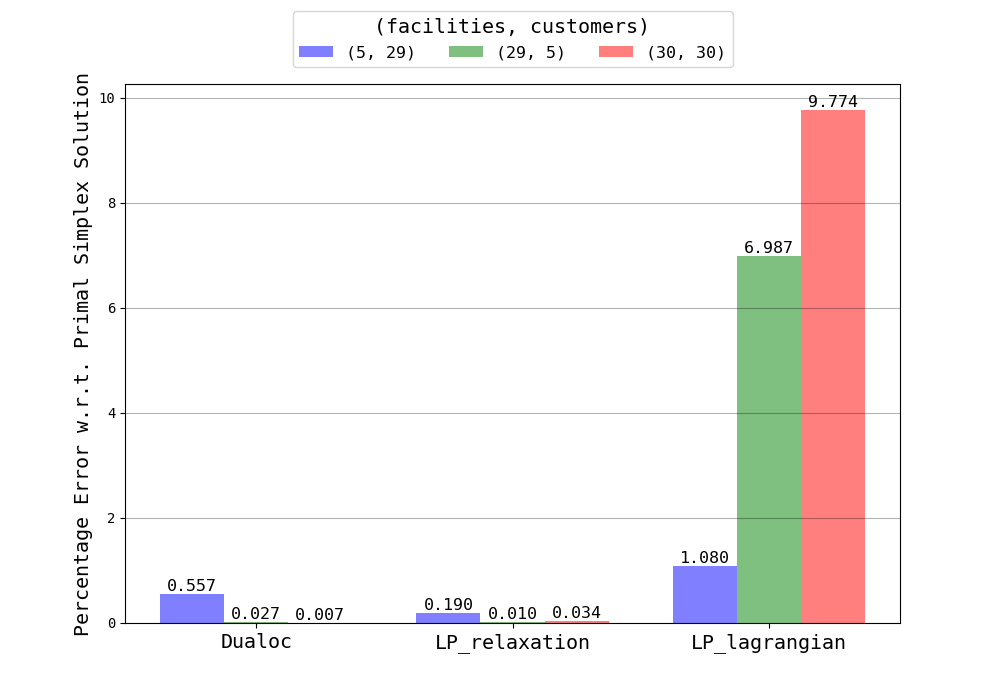
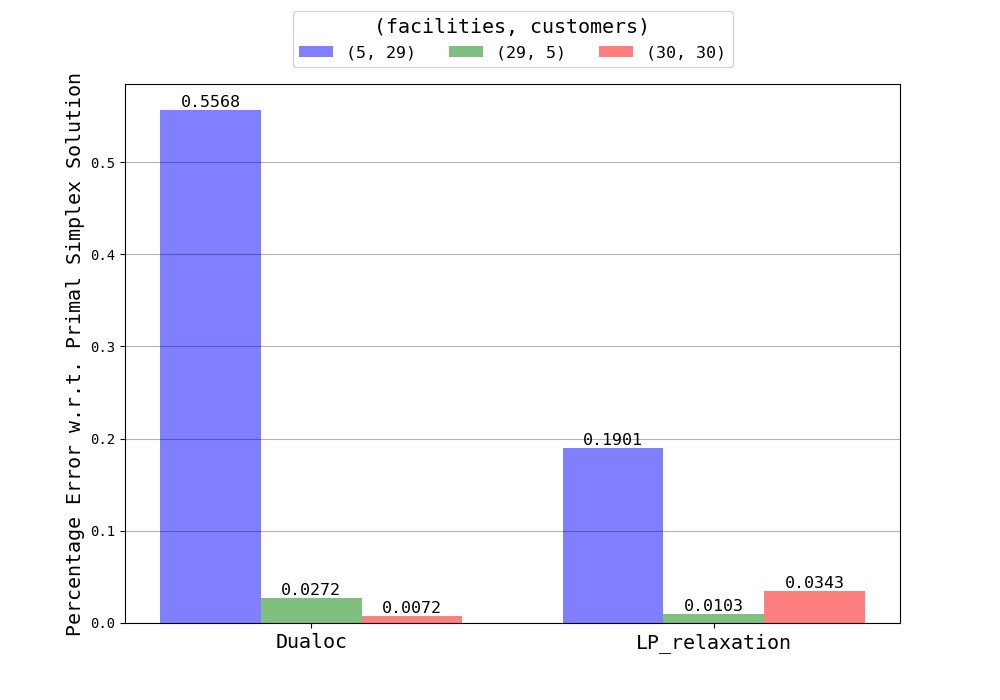
warning matplotlib fixed + split charts

Changed region(s): [[0.155, 0.12, 0.868, 0.93], [0.062, 0.09, 0.124, 0.51], [0.062, 0.54, 0.124, 0.93]]

diff --git a/src/performance/chart.py b/src/performance/chart.py
@@ -1,6 +1,8 @@
+from cmath import nan
 import numpy as np
 import matplotlib.pyplot as plt
 from performance.helpers import *
+
 
 class Chart:
     def __init__(self):
@@ -13,23 +15,19 @@ class Chart:
                         'font.family': 'monospace', 'figure.facecolor': 'white',
                         'figure.edgecolor': 'white', 'xtick.color': 'black',
                         'ytick.color': 'black'}
-        self.ind = np.arange(3)  # the x locations for the groups
-        self.width = 0.25      # the width of the bars
         self.color_list = ['b', 'g', 'r', 'c', 'm', 'y']
+        self.width = 0.25
 
     def autolabel(self, rects, ax):
         for rect in rects:
             h = rect.get_height()
-            ax.text(rect.get_x()+rect.get_width()/2., h, "%.3f" % h,
+            label = "%.4f" % h
+            ax.text(rect.get_x()+rect.get_width()/2., h, label,
                     ha='center', va='bottom', rotation=0, fontsize='large', color=self.color)
 
     def set_chart(self, plt):
         fig = plt.figure(figsize=(10, 7))
-        plt.grid(alpha=.3, color=self.color)
-        ax = fig.add_subplot(111)
-        ax.set_xticklabels(
-            ('Dualoc', 'LP_relaxation', 'LP_lagrangian'), fontsize=self.axes_fontsize)
-        return ax
+        return fig.add_subplot(111)
 
     def set_legend(self, ax, plt, rect, facilities, customers):
         l = len(facilities)
@@ -41,50 +39,53 @@ class Chart:
         plt.setp(legend.get_title(), color=self.color,
                  fontsize=self.axes_fontsize)
 
-    def error_chart(self, path, path_to_save):
+    def error_chart(self, path, path_to_save, algorithm_list, width):
 
-        value, facilities, customers = create_list(path, 'error')
+        value, facilities, customers = create_list(
+            path, 'error', algorithm_list)
         l = len(facilities)
-
+        ind = np.arange(len(algorithm_list))  # the x locations for the groups
         plt_instance = plt
 
         with plt_instance.rc_context(self.context):
 
             ax = self.set_chart(plt_instance)
-
             rect = [[] for _ in range(0, l)]
-
             for i in range(0, l):
+
                 rect[i] = ax.bar(
-                    self.ind + (i * self.width), value[i], self.width, alpha=.5, color=self.color_list[i])
+                    ind + (i * self.width), value[i], width, alpha=.5, color=self.color_list[i])
                 self.autolabel(rect[i], ax)
 
             self.set_legend(ax, plt_instance, rect, facilities, customers)
-
             plt_instance.ylabel('Percentage Error w.r.t. Primal Simplex Solution',
                                 fontsize=self.axes_fontsize, color=self.color)
 
+            ax.set_xticks(ind+((l-1)/2)*self.width)
+            ax.set_xticklabels(tuple(algorithm_list),
+                               fontsize=self.axes_fontsize)
+            plt_instance.grid(alpha=.3, color=self.color)
             ax.grid(axis='x')
-            ax.set_xticks(self.ind+((l-1)/2)*self.width)
             plt_instance.savefig(path_to_save)
-            #plt_instance.show()
+            # plt_instance.show()
 
-    def time_chart(self, path, path_to_save):
+    def time_chart(self, path, path_to_save, algorithm_list, width):
 
-        value, facilities, customers = create_list(path, 'time')
+        value, facilities, customers = create_list(
+            path, 'time', algorithm_list)
         l = len(facilities)
+        ind = np.arange(len(algorithm_list))  # the x locations for the groups
 
         plt_instance = plt
 
         with plt_instance.rc_context(self.context):
 
             ax = self.set_chart(plt_instance)
-
             rect = [[] for _ in range(0, l)]
-
             for i in range(0, l):
-                rect[i] = ax.bar(
-                    self.ind + (i * self.width), value[i], self.width, alpha=.5, color=self.color_list[i])
+
+                rect[i] = ax.bar(ind + (i * self.width), value[i],
+                                 width, alpha=.5, color=self.color_list[i])
                 self.autolabel(rect[i], ax)
 
             self.set_legend(ax, plt_instance, rect, facilities, customers)
@@ -92,7 +93,10 @@ class Chart:
             plt_instance.ylabel('Execution Time [ms]', fontsize=self.axes_fontsize,
                                 color=self.color)
 
+            ax.set_xticks(ind+((l-1)/2)*self.width)
+            ax.set_xticklabels(tuple(algorithm_list),
+                               fontsize=self.axes_fontsize)
+            plt_instance.grid(alpha=.3, color=self.color)
             ax.grid(axis='x')
-            ax.set_xticks(self.ind+((l-1)/2)*self.width)
             plt_instance.savefig(path_to_save)
-            #plt_instance.show()
+            # plt_instance.show()

diff --git a/src/performance/test.py b/src/performance/test.py
@@ -77,10 +77,18 @@ class Test:
                         index += 1
             
             chart = Chart()
+            
             chart.error_chart(local_path, self.path +
-                              'chart_error_' + str(t) + '.png')
+                              'chart_error_' + str(t) + '.png', ["Dualoc", "LP_relaxation"], 0.25)
             chart.time_chart(local_path,  self.path +
-                             'chart_time_' + str(t) + '.png')
+                             'chart_time_' + str(t) + '.png', ["Dualoc", "LP_relaxation"], 0.25)
+            
+            chart.error_chart(local_path, self.path +
+                              'chart_error_lagrangian_' + str(t) + '.png', ["LP_lagrangian"], 0.15)
+            chart.time_chart(local_path,  self.path +
+                             'chart_time_lagrangian_' + str(t) + '.png', ["LP_lagrangian"], 0.15)
+                             
+
 
     # TEST CASE 1: setup cost = shipping cost
     # worth case: ratio(shipping cost/setup cost) = 950/1000 ~ 1

diff --git a/src/gurobi/gurobi.py b/src/gurobi/gurobi.py
@@ -23,19 +23,15 @@ class Gurobi:
         env = gp.Env(empty=True)
         env.setParam("OutputFlag", 0)
         env.start()
-
         self.model = gp.Model('facility_location', env=env)
 
         # to set primal simplex algorithm
         # (https://www.gurobi.com/documentation/9.5/refman/method.html)
-
         self.model.Params.Method = 0
-
         self.select = self.model.addVars(facilities,
                                          vtype=gp.GRB.BINARY, name='Select')
         self.assign = self.model.addVars(self.cartesian_prod,
                                          vtype=gp.GRB.BINARY, name='Assign')
-
         self.model.addConstrs((gp.quicksum(self.assign[(customer, facility)] for facility in range(
             facilities)) == 1 for customer in range(customers)), name='Demand')
 

diff --git a/src/performance/helpers.py b/src/performance/helpers.py
@@ -2,7 +2,7 @@ import pandas as pd
 import numpy as np
 
 
-def create_list(path, attribute):
+def create_list(path, attribute, algorithm_list):
 
     df = pd.read_csv(path)
     facility = df['#facility'].tolist()
@@ -17,7 +17,7 @@ def create_list(path, attribute):
     index = 0
     for t in facility:
         for _, row in df.iterrows():
-            if row['#facility'] == t:
+            if row['#facility'] == t and row['algorithm'] in algorithm_list:
                 value[index].append(row[attribute])
         index += 1
 

diff --git a/README.md b/README.md
@@ -26,12 +26,14 @@ python3 run_test.py
 
 # Performance
 
-Some charts that show results. Others available [here](https://github.com/matt-merman/AMOD/tree/main/src/performance/result)
+Some charts:
 
-![Error Result](./src/performance/result/result_error.png)
+![Error Result](./src/performance/result/chart_error_0.png)
 
-![Time Result](./src/performance/result/result_time.png)
+![Time Result](./src/performance/result/chart_time_0.png)
+
+Others available [here](https://github.com/matt-merman/AMOD/tree/main/src/performance/result)
 
 # Implementation
 
-Please see ...
+Please see [presentation](https://github.com/matt-merman/AMOD/tree/main/docs/presentation.pdf) for more details.
